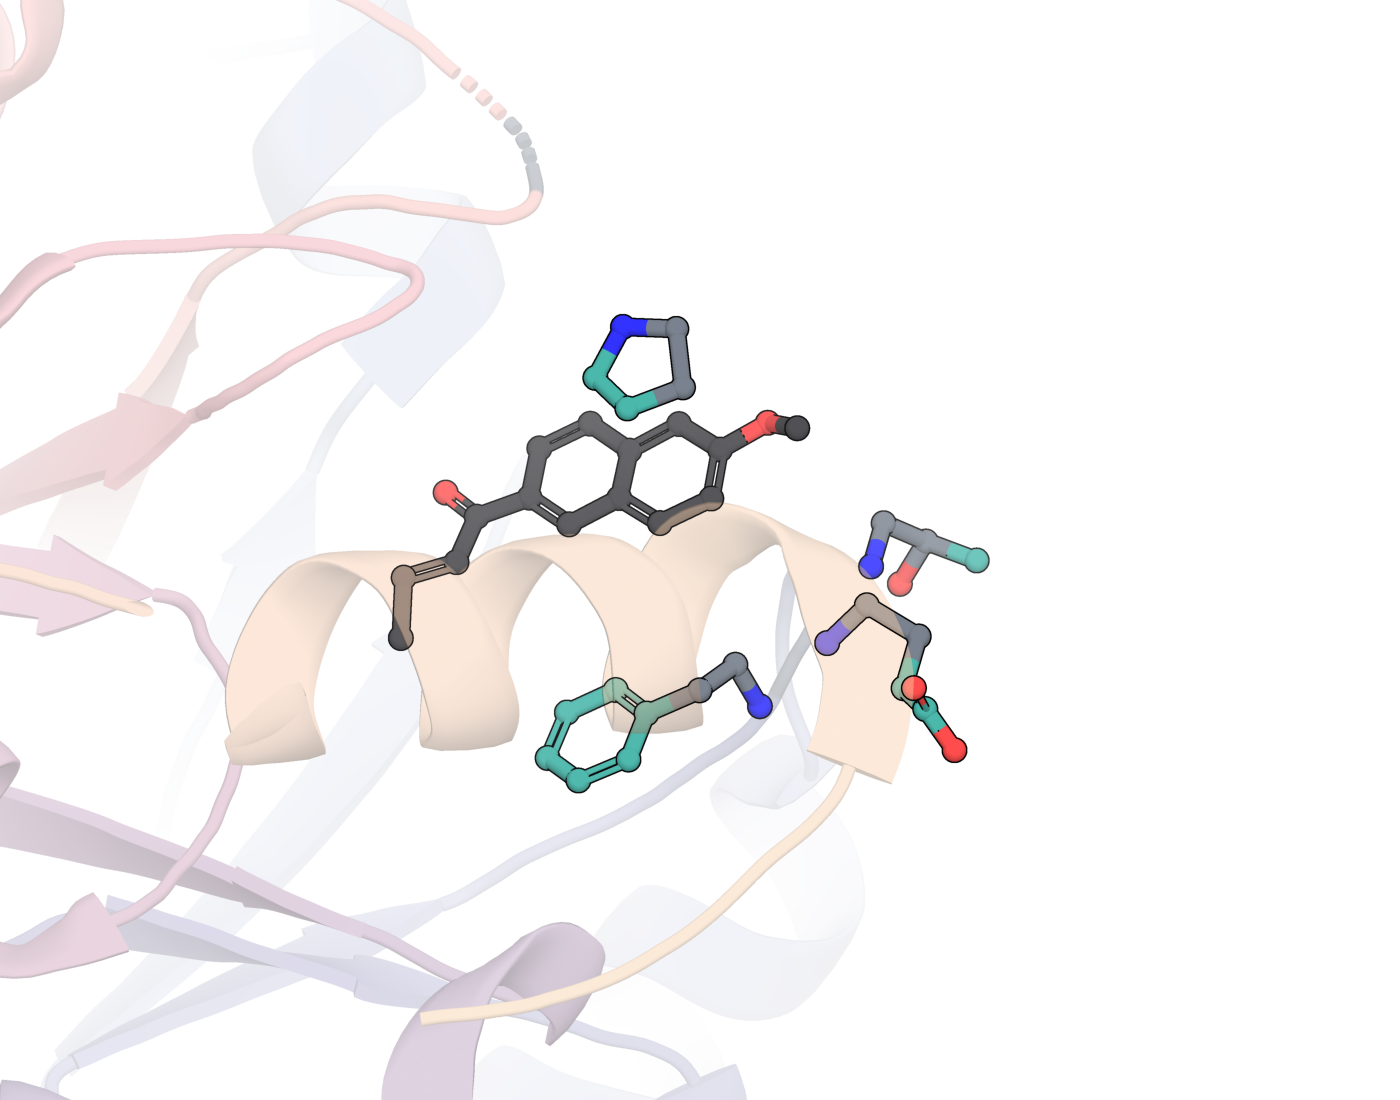
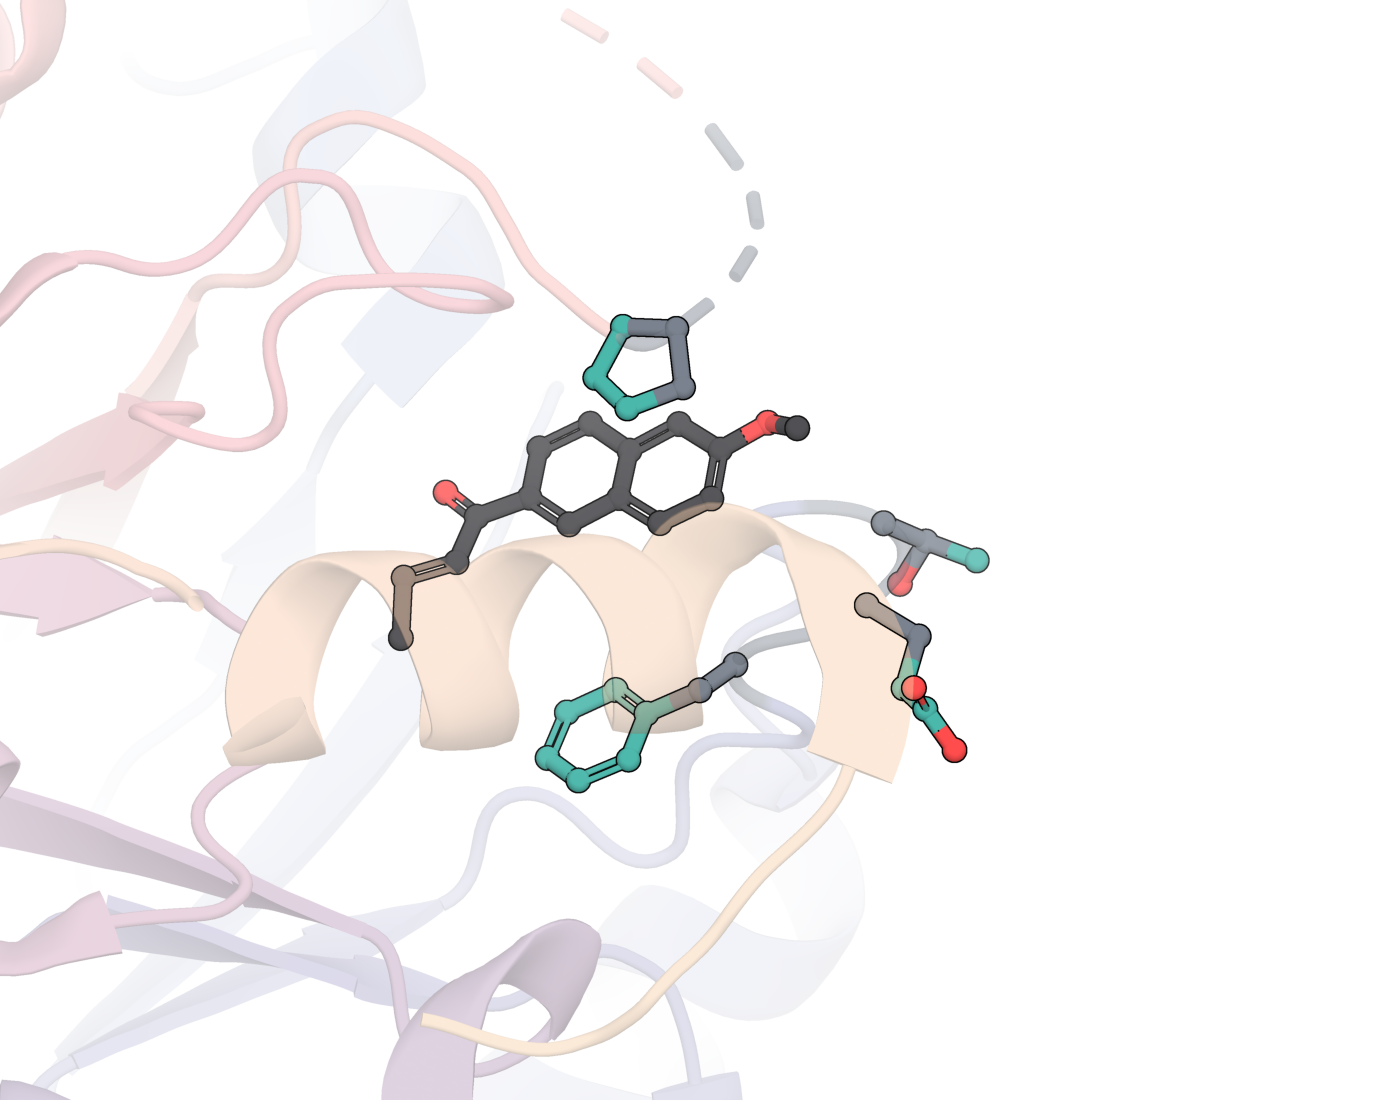
fix: enable cartoon_side_chain_helper and refine antibody CDR loop rendering

diff --git a/scripts/publication_style.py b/scripts/publication_style.py
@@ -372,7 +372,8 @@ def apply_theme(
         ("cartoon_loop_radius", 0.18),
         ("cartoon_tube_radius", 0.45),
         ("cartoon_sampling", 14),
-        ("cartoon_smooth_loops", 1),
+        ("cartoon_smooth_loops", 0),
+        ("cartoon_side_chain_helper", 1),
         ("cartoon_fancy_helices", 0),
         ("cartoon_highlight_color", -1),
         ("stick_radius", 0.22),
@@ -1016,16 +1017,14 @@ def render_monomer(
         else:
             cmd.color(defaults["motif_color"], "motif_region")
             cmd.set("cartoon_transparency", 0.0, "motif_region")
-            cmd.show("sticks", "motif_region and not name C+O+N")
-            cmd.hide("sticks", "motif_region and hydro")
+            cmd.show("sticks", "motif_region and not hydro and not resn GLY")
             cmd.util.cnc("motif_region")
             _rec(
                 pml,
                 f"select motif_region, design and ({motif_sele})\n"
                 f"color {defaults['motif_color']}, motif_region\n"
                 "set cartoon_transparency, 0.0, motif_region\n"
-                "show sticks, motif_region and not name C+O+N\n"
-                "hide sticks, motif_region and hydro\n"
+                "show sticks, motif_region and not hydro and not resn GLY\n"
                 "util.cnc motif_region",
             )
 
@@ -1108,8 +1107,7 @@ def render_binder(
         hydro_anchors = f"byres (({binder_sel}) and resn ILE+VAL+LEU+PHE+TRP+TYR+MET within 4.5 of ({target_sel}))"
         cmd.select("binder_anchors", hydro_anchors)
         if cmd.count_atoms("binder_anchors") > 0:
-            cmd.show("sticks", "binder_anchors and not name C+O+N")
-            cmd.hide("sticks", "binder_anchors and hydro")
+            cmd.show("sticks", "binder_anchors and not hydro and not resn GLY")
             cmd.color("hydro_core", "binder_anchors")
             cmd.util.cnc("binder_anchors")
         _rec(
@@ -1117,7 +1115,7 @@ def render_binder(
             f"show surface, {target_sel}\nshow cartoon, {binder_sel}\ncolor {b_color}, {binder_sel}\n"
             f"set cartoon_transparency, 0.30, {binder_sel}\n"
             f"select binder_anchors, {hydro_anchors}\n"
-            "show sticks, binder_anchors and not name C+O+N\ncolor hydro_core, binder_anchors\nutil.cnc binder_anchors",
+            "show sticks, binder_anchors and not hydro and not resn GLY\ncolor hydro_core, binder_anchors\nutil.cnc binder_anchors",
         )
     else:
         if target_repr in ("surface", "both"):
@@ -1175,8 +1173,7 @@ def render_binder(
     if (show_interface_sticks or zoom_interface or with_inset) and style != "goodsell":
         cmd.select("iface_binder", f"byres (({binder_sel}) within 4.0 of ({target_sel}))")
         cmd.select("iface_target", f"byres (({target_sel}) within 4.0 of ({binder_sel}))")
-        cmd.show("sticks", "(iface_binder or iface_target) and not name C+O+N")
-        cmd.hide("sticks", "(iface_binder or iface_target) and hydro")
+        cmd.show("sticks", "(iface_binder or iface_target) and not hydro and not resn GLY")
         cmd.util.cnc("iface_binder or iface_target")
         cmd.distance("iface_hbonds", "iface_binder", "iface_target", cutoff=3.5, mode=2)
         cmd.set("dash_color", defaults["dash_color"])
@@ -1185,8 +1182,7 @@ def render_binder(
             pml,
             f"select iface_binder, byres (({binder_sel}) within 4.0 of ({target_sel}))\n"
             f"select iface_target, byres (({target_sel}) within 4.0 of ({binder_sel}))\n"
-            "show sticks, (iface_binder or iface_target) and not name C+O+N\n"
-            "hide sticks, (iface_binder or iface_target) and hydro\n"
+            "show sticks, (iface_binder or iface_target) and not hydro and not resn GLY\n"
             "util.cnc iface_binder or iface_target\n"
             "distance iface_hbonds, iface_binder, iface_target, cutoff=3.5, mode=2\n"
             f"set dash_color, {defaults['dash_color']}\nhide labels, iface_hbonds",
@@ -1322,15 +1318,13 @@ def render_oligomer(
             _apply_goodsell_spheres(cmd, "sym_motif", base_color=defaults["motif_color"], pml_lines=pml)
         else:
             cmd.color(defaults["motif_color"], "sym_motif")
-            cmd.show("sticks", "sym_motif and not name C+O+N")
-            cmd.hide("sticks", "sym_motif and hydro")
+            cmd.show("sticks", "sym_motif and not hydro and not resn GLY")
             cmd.util.cnc("sym_motif")
             _rec(
                 pml,
                 f"select sym_motif, oligomer and ({motif_sele})\n"
                 f"color {defaults['motif_color']}, sym_motif\n"
-                "show sticks, sym_motif and not name C+O+N\n"
-                "hide sticks, sym_motif and hydro\n"
+                "show sticks, sym_motif and not hydro and not resn GLY\n"
                 "util.cnc sym_motif",
             )
 
@@ -1501,16 +1495,14 @@ def render_active_site(
         if style == "goodsell":
             _apply_goodsell_spheres(cmd, "catalytic_res", base_color=defaults["motif_color"], pml_lines=pml)
         else:
-            cmd.show("sticks", "catalytic_res and not name C+O")
-            cmd.hide("sticks", "catalytic_res and hydro")
+            cmd.show("sticks", "catalytic_res and not hydro and not resn GLY")
             cmd.color(defaults["connector_color"], "catalytic_res and name CA+CB+N+C+O")
             cmd.color(defaults["motif_color"], "catalytic_res and not name CA+CB+N+C+O")
             cmd.util.cnc("catalytic_res")
             _rec(
                 pml,
                 f"select catalytic_res, enzyme and ({catalytic_sele})\n"
-                "show sticks, catalytic_res and not name C+O\n"
-                "hide sticks, catalytic_res and hydro\n"
+                "show sticks, catalytic_res and not hydro and not resn GLY\n"
                 f"color {defaults['connector_color']}, catalytic_res and name CA+CB+N+C+O\n"
                 f"color {defaults['motif_color']}, catalytic_res and not name CA+CB+N+C+O\n"
                 "util.cnc catalytic_res",
@@ -1624,6 +1616,7 @@ def render_antibody(
     cdr_l2: str = "50-56",
     cdr_l3: str = "89-97",
     footprint_cutoff: float = 4.5,
+    full_fab: bool = False,
     with_inset: bool = False,
     cylindrical_helices: Optional[bool] = None,
     width: int = 2000,
@@ -1646,6 +1639,10 @@ def render_antibody(
 
     ag_sel = f"ab_complex and chain {antigen_chain} and polymer.protein"
     vh_sel = f"ab_complex and chain {heavy_chain} and polymer.protein"
+    if not full_fab:
+        vh_fv = f"ab_complex and chain {heavy_chain} and resi 1-128 and polymer.protein"
+        if cmd.count_atoms(vh_fv) > 0:
+            vh_sel = vh_fv
     if cmd.count_atoms(ag_sel) == 0:
         raise ValueError(f"Antigen selection '{ag_sel}' matched 0 atoms.")
     if cmd.count_atoms(vh_sel) == 0:
@@ -1657,7 +1654,7 @@ def render_antibody(
     cmd.color("ab_antigen_surf", ag_sel)
     _rec(pml, f"show surface, {ag_sel}\nset surface_color, ab_antigen_surf, {ag_sel}\ncolor ab_antigen_surf, {ag_sel}")
 
-    # Heavy & optional light framework
+    # Heavy & optional light framework (Fv by default to avoid constant-domain breaks)
     cmd.show("cartoon", vh_sel)
     cmd.color("ab_framework_vh", vh_sel)
     _rec(pml, f"show cartoon, {vh_sel}\ncolor ab_framework_vh, {vh_sel}")
@@ -1669,6 +1666,10 @@ def render_antibody(
     ]
     if light_chain:
         vl_sel = f"ab_complex and chain {light_chain} and polymer.protein"
+        if not full_fab:
+            vl_fv = f"ab_complex and chain {light_chain} and resi 1-120 and polymer.protein"
+            if cmd.count_atoms(vl_fv) > 0:
+                vl_sel = vl_fv
         if cmd.count_atoms(vl_sel) == 0:
             raise ValueError(f"Light chain selection '{vl_sel}' matched 0 atoms.")
         cmd.show("cartoon", vl_sel)
@@ -1688,34 +1689,34 @@ def render_antibody(
         if cmd.count_atoms(sel_expr) == 0:
             continue
         cmd.select(name, sel_expr)
+        cmd.alter(name, "ss='L'")
         cmd.color(col, name)
-        _rec(pml, f"select {name}, {sel_expr}\ncolor {col}, {name}")
-        if name == "cdr_h3":
-            cmd.set("cartoon_loop_radius", 0.28, name)
-            cmd.show("sticks", f"{name} and not name C+O+N")
-            cmd.hide("sticks", f"{name} and hydro")
-            cmd.util.cnc(name)
-            _rec(
-                pml,
-                f"set cartoon_loop_radius, 0.28, {name}\n"
-                f"show sticks, {name} and not name C+O+N\n"
-                f"hide sticks, {name} and hydro\nutil.cnc {name}",
-            )
+        _rec(pml, f"select {name}, {sel_expr}\nalter {name}, ss='L'\ncolor {col}, {name}")
         cdr_names.append(name)
 
-        # Project epitope footprint on antigen surface
+        # Project smooth atom-level epitope footprint onto antigen surface
         fp_name = f"epitope_{name}"
-        fp_expr = f"byres (({ag_sel}) within {footprint_cutoff} of ({name}))"
+        fp_expr = f"({ag_sel}) within {footprint_cutoff} of ({name})"
         if cmd.count_atoms(fp_expr) > 0:
             cmd.select(fp_name, fp_expr)
             cmd.color(col, fp_name)
             cmd.set("surface_color", col, fp_name)
             _rec(pml, f"select {fp_name}, {fp_expr}\ncolor {col}, {fp_name}\nset surface_color, {col}, {fp_name}")
 
-    # H-bonds between CDR loops and antigen
+    cmd.rebuild()
+    _rec(pml, "rebuild")
+
+    # Show sticks only on CDR residues actually contacting antigen, and draw H-bonds
     if cdr_names:
         all_cdr_expr = " or ".join(cdr_names)
         cmd.select("cdr_all", all_cdr_expr)
+        ab_contacts_expr = f"byres (cdr_all within {footprint_cutoff} of ({ag_sel})) and not resn GLY and not hydro"
+        if cmd.count_atoms(ab_contacts_expr) > 0:
+            cmd.select("cdr_contacts", ab_contacts_expr)
+            cmd.show("sticks", "cdr_contacts")
+            cmd.util.cnc("cdr_contacts")
+            _rec(pml, f"select cdr_contacts, {ab_contacts_expr}\nshow sticks, cdr_contacts\nutil.cnc cdr_contacts")
+
         cmd.select("epitope_all", f"byres (({ag_sel}) within {footprint_cutoff} of cdr_all)")
         cmd.distance("ab_hbonds", "cdr_all", "epitope_all", cutoff=3.5, mode=2)
         cmd.set("dash_color", "spot_dash_gray")
@@ -1866,8 +1867,7 @@ def render_ligand_pocket(
     cmd.show("surface", "pocket_res")
     cmd.set("surface_color", defaults["target_color"], "pocket_res")
     cmd.set("transparency", 0.42, "pocket_res")
-    cmd.show("sticks", "pocket_res and not name C+O")
-    cmd.hide("sticks", "pocket_res and hydro")
+    cmd.show("sticks", "pocket_res and not hydro and not resn GLY")
     cmd.color("pocket_res_carbon", "pocket_res")
     cmd.util.cnc("pocket_res")
     _rec(
@@ -1875,7 +1875,7 @@ def render_ligand_pocket(
         f"select pocket_res, byres ((complex and polymer.protein) within {pocket_radius} of ({lig_sel}))\n"
         f"show surface, pocket_res\nset surface_color, {defaults['target_color']}, pocket_res\n"
         "set transparency, 0.42, pocket_res\n"
-        "show sticks, pocket_res and not name C+O\nhide sticks, pocket_res and hydro\n"
+        "show sticks, pocket_res and not hydro and not resn GLY\n"
         "color pocket_res_carbon, pocket_res\nutil.cnc pocket_res",
     )
 

diff --git a/scripts/render_publication.py b/scripts/render_publication.py
@@ -131,6 +131,7 @@ def build_parser() -> argparse.ArgumentParser:
     p_ab.add_argument("--cdr-l2", default="50-56", help="CDR-L2 residue range (default: 50-56)")
     p_ab.add_argument("--cdr-l3", default="89-97", help="CDR-L3 residue range (default: 89-97)")
     p_ab.add_argument("--footprint-cutoff", type=float, default=4.5, help="Epitope projection cutoff in A (default: 4.5)")
+    p_ab.add_argument("--full-fab", action="store_true", help="Show full Fab CH1/CL domains instead of Fv variable domain")
     p_ab.add_argument("--with-inset", action="store_true", help="Generate global + CDR interface inset composite")
     _add_common_args(p_ab, default_style="antibody_cdr")
 
@@ -284,6 +285,7 @@ def main() -> None:
                 cdr_l2=args.cdr_l2,
                 cdr_l3=args.cdr_l3,
                 footprint_cutoff=args.footprint_cutoff,
+                full_fab=args.full_fab,
                 with_inset=args.with_inset,
                 cylindrical_helices=args.cylindrical_helices,
                 width=args.width,
